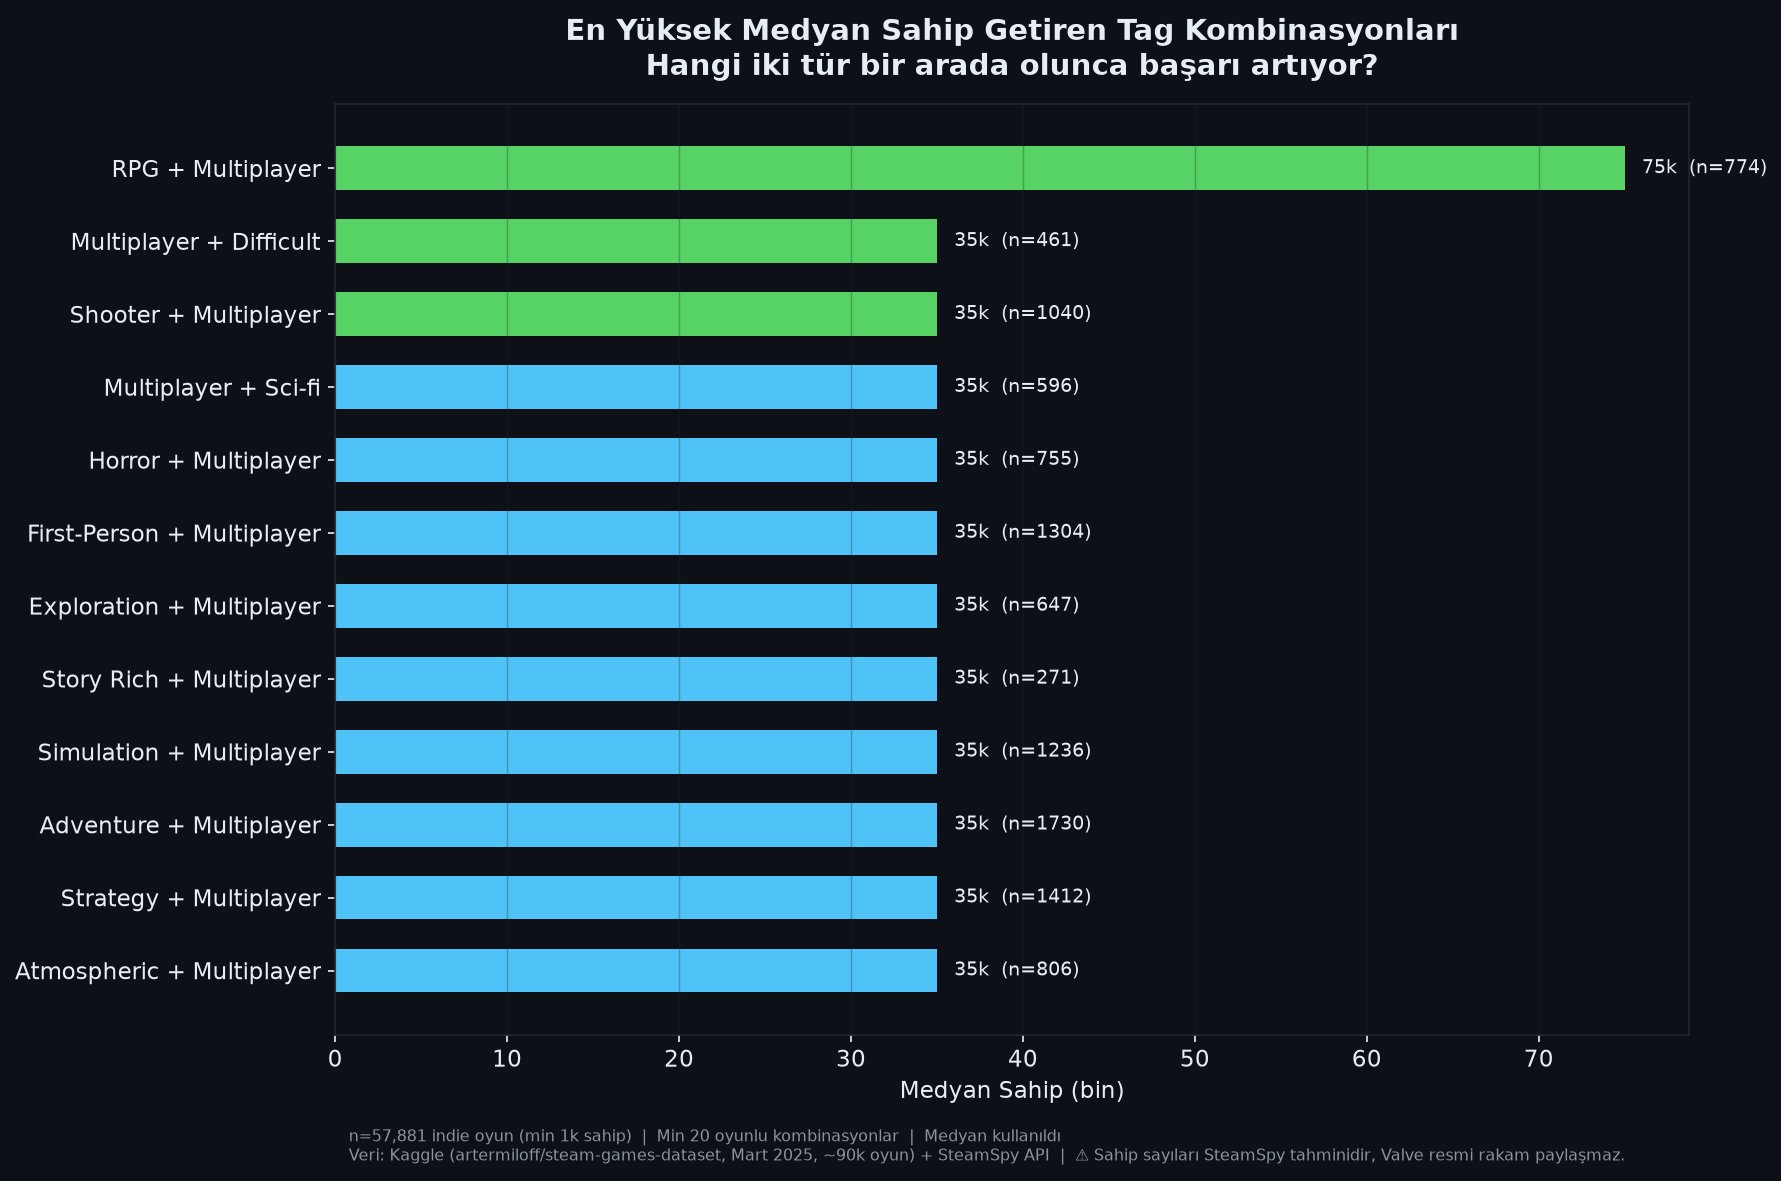
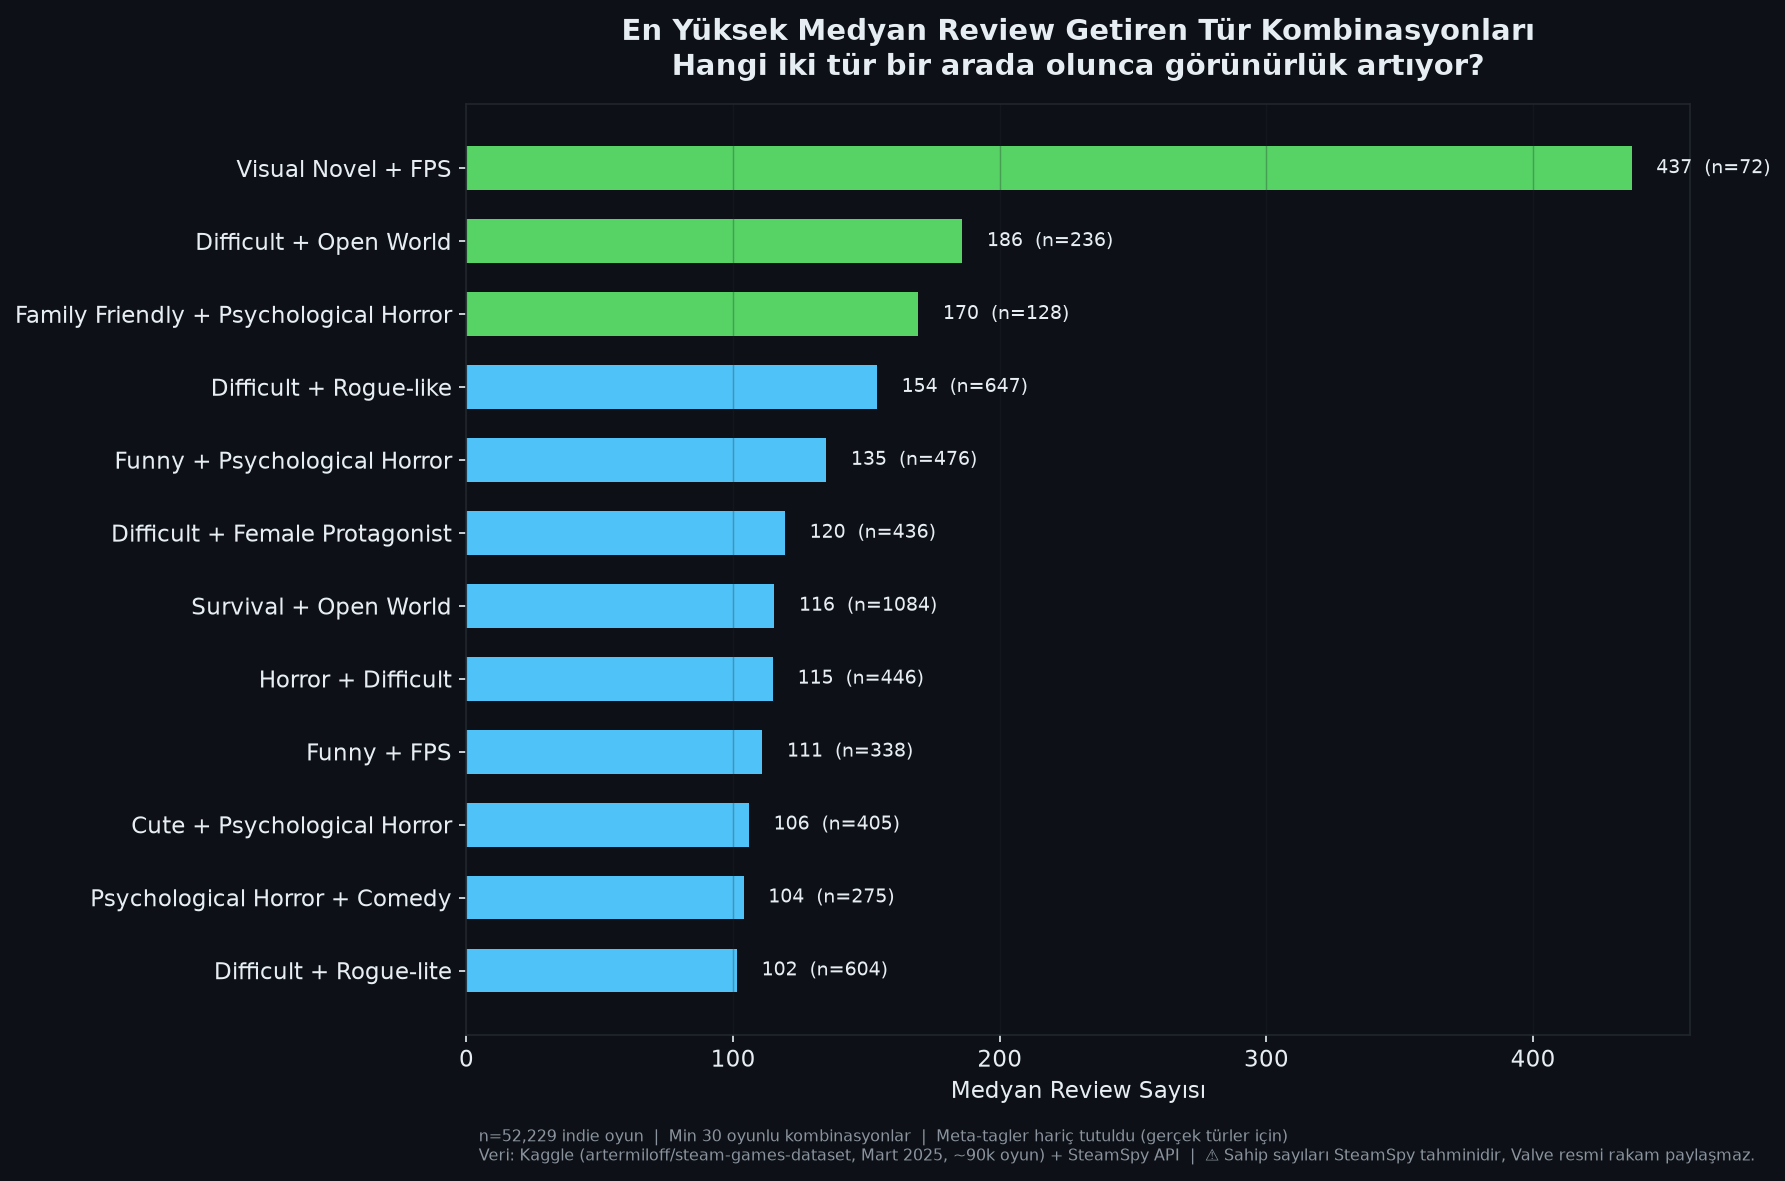
fix: tag synergy chart used owners_mid and didn't filter meta-tags

diff --git a/src/visualizer.py b/src/visualizer.py
@@ -314,26 +314,36 @@ def chart_80pct_cliff(df):
 
 def chart_tag_synergy(df):
     """
-    En yüksek medyan sahip getiren 2-tag kombinasyonları.
+    En yüksek medyan review getiren 2-tag (tür) kombinasyonları.
     Mesaj: 'Bu iki tür birlikte olunca altın.'
     """
-    indie = df[df["is_indie"] & (df["owners_mid"] >= 1000)].copy()
+    indie = df[df["is_indie"] & (df["total_reviews"] > 0)].copy()
     n_total = len(indie)
 
     # En sık görülen tag'leri bul (analiz için)
     from collections import Counter
     all_tags = [t for tags in indie["tags_list"] for t in tags]
-    top_tags = [t for t, _ in Counter(all_tags).most_common(40)]
+    
+    # Meta-tag'leri çıkar (gerçek tür sinerjisi bulmak için)
+    ignore_tags = {
+        "Indie", "Singleplayer", "Multiplayer", "Co-op", "2D", "3D", 
+        "Early Access", "Free to Play", "Casual", "Action", "Adventure",
+        "Strategy", "Simulation", "RPG", "Great Soundtrack", "Atmospheric",
+        "Pixel Graphics", "Story Rich", "Sci-fi", "Fantasy", "Anime",
+        "VR", "Gore", "Violent", "Nudity", "Sexual Content"
+    }
+    
+    top_tags = [t for t, _ in Counter(all_tags).most_common(60) if t not in ignore_tags]
 
     combo_stats = []
     for t1, t2 in combinations(top_tags, 2):
         mask = indie["tags_list"].apply(lambda tags: t1 in tags and t2 in tags)
         sub  = indie[mask]
-        if len(sub) < 20:
+        if len(sub) < 30: # Min 30 oyun
             continue
         combo_stats.append({
             "combo": f"{t1} + {t2}",
-            "medyan": sub["owners_mid"].median(),
+            "medyan": sub["total_reviews"].median(),
             "n": len(sub)
         })
 
@@ -349,21 +359,21 @@ def chart_tag_synergy(df):
     fig, ax = plt.subplots(figsize=(12, 8))
     colors = [C["green"] if i >= len(stats) - 3 else C["blue"]
               for i in range(len(stats))]
-    bars = ax.barh(stats["combo"], stats["medyan"] / 1000, color=colors, height=0.6)
+    bars = ax.barh(stats["combo"], stats["medyan"], color=colors, height=0.6)
 
     for bar, row in zip(bars, stats.itertuples()):
-        ax.text(bar.get_width() + 1,
+        ax.text(bar.get_width() + (ax.get_xlim()[1] * 0.02),
                 bar.get_y() + bar.get_height() / 2,
-                f"{row.medyan/1000:.0f}k  (n={row.n})",
+                f"{row.medyan:.0f}  (n={row.n})",
                 va="center", fontsize=9, color=C["text"])
 
-    ax.set_title("En Yüksek Medyan Sahip Getiren Tag Kombinasyonları\n"
-                 "Hangi iki tür bir arada olunca başarı artıyor?",
+    ax.set_title("En Yüksek Medyan Review Getiren Tür Kombinasyonları\n"
+                 "Hangi iki tür bir arada olunca görünürlük artıyor?",
                  fontweight="bold", pad=14)
-    ax.set_xlabel("Medyan Sahip (bin)")
+    ax.set_xlabel("Medyan Review Sayısı")
     ax.grid(True, axis="x", alpha=0.3)
-    _note(ax, f"n={n_total:,} indie oyun (min 1k sahip)  |  Min 20 oyunlu kombinasyonlar  |  "
-              f"Medyan kullanıldı")
+    _note(ax, f"n={n_total:,} indie oyun  |  Min 30 oyunlu kombinasyonlar  |  "
+              f"Meta-tagler hariç tutuldu (gerçek türler için)")
     fig.tight_layout()
     return _save(fig, "tag_synergy.png")
 
